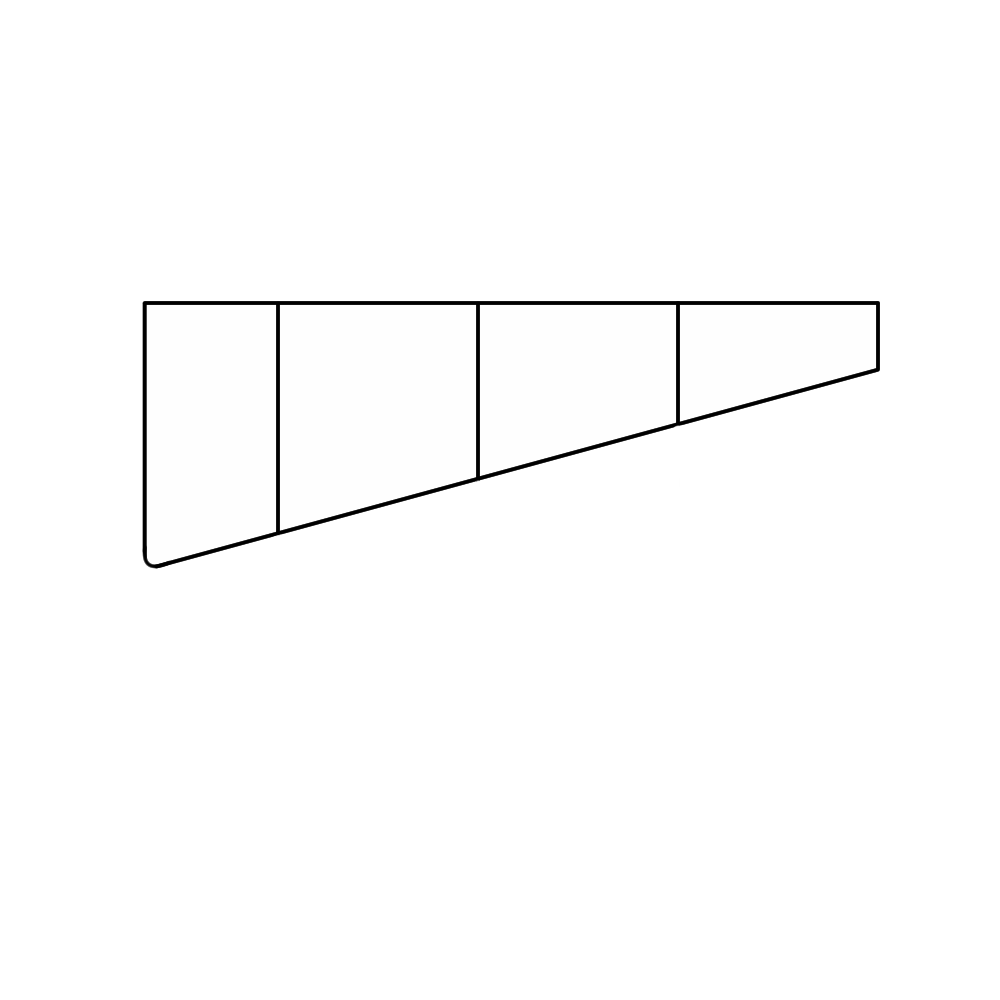
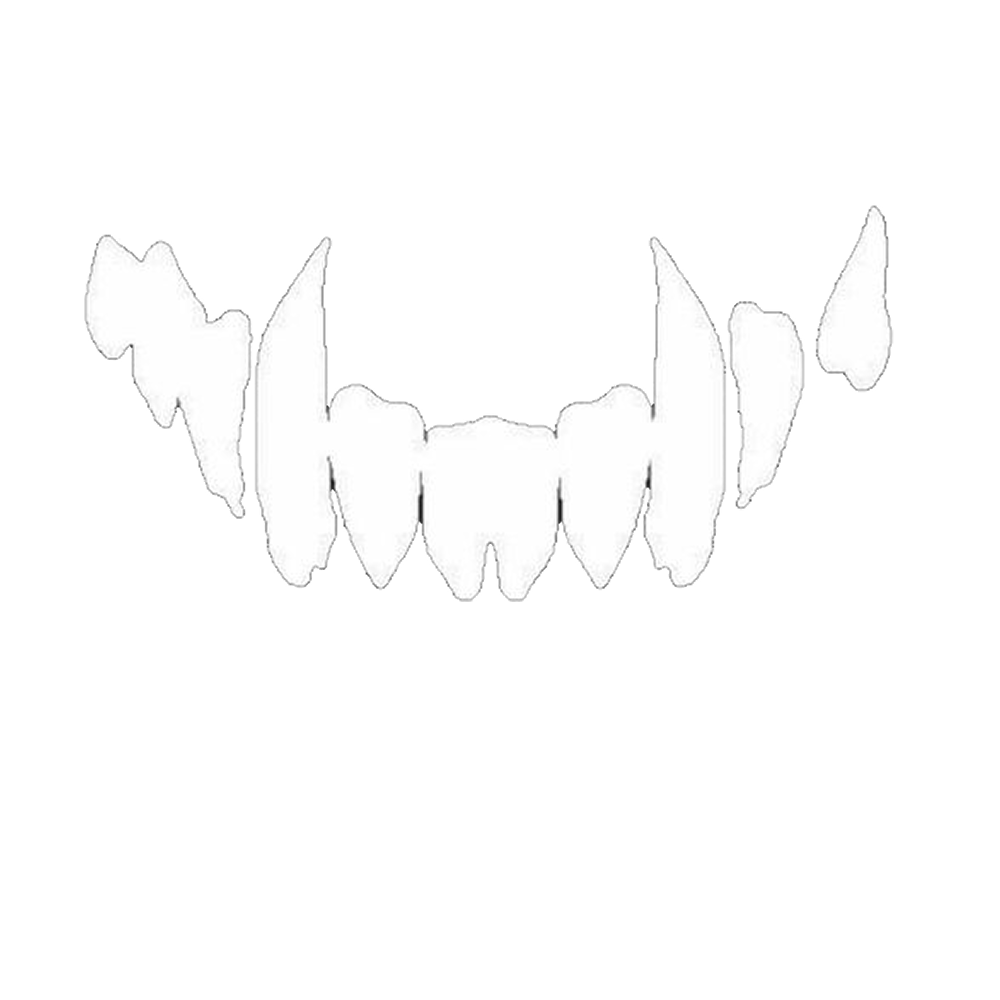
bite

diff --git a/Cooking_Game/Assets/Yamaguchi/script/BiteEffect.cs b/Cooking_Game/Assets/Yamaguchi/script/BiteEffect.cs
@@ -3,30 +3,34 @@ using System.Collections;
 
 public class BiteEffect : MonoBehaviour
 {
-    [SerializeField] private Transform upperRoot;
-    [SerializeField] private Transform lowerRoot;
-    [SerializeField] private Transform effectPoint;   // 口の中央
-    [SerializeField] private ParticleSystem hitEffect;
-    [SerializeField] private float biteSpeed = 8f;
-    [SerializeField] private float biteAngle = 30f;
-    [SerializeField] private float holdTime = 0.1f;
+    [SerializeField] private Transform upperRoot;     // 上の歯
+    [SerializeField] private Transform lowerRoot;     // 下の歯
+    [SerializeField] private Transform effectPoint;   // 噛み合わせ中心
+    [SerializeField] private ParticleSystem hitEffect; // パーティクル
+    [SerializeField] private float moveDistance = 0.2f; // 上下移動距離
+    [SerializeField] private float biteSpeed = 8f;      // 噛み速度
+    [SerializeField] private float holdTime = 0.1f;     // 閉じたまま時間
+    [SerializeField] private float moveOffset = 0.3f;   // 出現位置補正（距離）
+    [SerializeField] private float lifeTime = 2f;       // 自動削除時間
 
-    private Quaternion upperStartRot;
-    private Quaternion lowerStartRot;
+    private Vector3 upperStartPos;
+    private Vector3 lowerStartPos;
     private bool isBiting = false;
+    private Transform target;
 
     void Start()
     {
-        upperStartRot = upperRoot.localRotation;
-        lowerStartRot = lowerRoot.localRotation;
+        upperStartPos = upperRoot.localPosition;
+        lowerStartPos = lowerRoot.localPosition;
     }
 
-    void Update()
+    /// <summary>
+    /// 対象を設定して噛みつく
+    /// </summary>
+    public void SetTarget(Transform targetTransform)
     {
-        if (Input.GetKeyDown(KeyCode.Space))
-        {
-            Bite();
-        }
+        target = targetTransform;
+        Bite();
     }
 
     public void Bite()
@@ -39,54 +43,44 @@ public class BiteEffect : MonoBehaviour
     {
         isBiting = true;
 
-        Quaternion upperOpen = Quaternion.Euler(0, 0, biteAngle);
-        Quaternion lowerOpen = Quaternion.Euler(0, 0, -biteAngle);
-
-        // 歯を開く
-        while (Quaternion.Angle(upperRoot.localRotation, upperOpen) > 0.1f)
+        // --- 方向計算（2D用、Z軸固定） ---
+        if (target != null)
         {
-            upperRoot.localRotation = Quaternion.RotateTowards(upperRoot.localRotation, upperOpen, biteSpeed * Time.deltaTime * 60);
-            lowerRoot.localRotation = Quaternion.RotateTowards(lowerRoot.localRotation, lowerOpen, biteSpeed * Time.deltaTime * 60);
+            Vector3 dir = (target.position - transform.position).normalized;
+            dir.z = 0;
+
+            // 口の位置を対象方向に少しだけ近づける
+            transform.position += dir * moveOffset;
+        }
+
+        // --- 歯を閉じる ---
+        Vector3 upperDown = upperStartPos + Vector3.down * moveDistance;
+        Vector3 lowerUp = lowerStartPos + Vector3.up * moveDistance;
+
+        while (Vector3.Distance(upperRoot.localPosition, upperDown) > 0.001f)
+        {
+            upperRoot.localPosition = Vector3.MoveTowards(upperRoot.localPosition, upperDown, biteSpeed * Time.deltaTime);
+            lowerRoot.localPosition = Vector3.MoveTowards(lowerRoot.localPosition, lowerUp, biteSpeed * Time.deltaTime);
             yield return null;
+        }
+
+        // --- パーティクル再生 ---
+        if (hitEffect != null && effectPoint != null)
+        {
+            hitEffect.transform.position = effectPoint.position;
+            hitEffect.Play();
         }
 
         yield return new WaitForSeconds(holdTime);
 
-        // パーティクル再生
-        if (hitEffect != null && effectPoint != null)
+        // --- 元に戻す ---
+        while (Vector3.Distance(upperRoot.localPosition, upperStartPos) > 0.001f)
         {
-            hitEffect.transform.position = effectPoint.position; // 口の中央
-            hitEffect.Play();
-        }
-
-        // 歯を閉じる
-        while (Quaternion.Angle(upperRoot.localRotation, upperStartRot) > 0.1f)
-        {
-            upperRoot.localRotation = Quaternion.RotateTowards(upperRoot.localRotation, upperStartRot, biteSpeed * Time.deltaTime * 60);
-            lowerRoot.localRotation = Quaternion.RotateTowards(lowerRoot.localRotation, lowerStartRot, biteSpeed * Time.deltaTime * 60);
+            upperRoot.localPosition = Vector3.MoveTowards(upperRoot.localPosition, upperStartPos, biteSpeed * Time.deltaTime);
+            lowerRoot.localPosition = Vector3.MoveTowards(lowerRoot.localPosition, lowerStartPos, biteSpeed * Time.deltaTime);
             yield return null;
         }
 
         isBiting = false;
-    }
-
-    // 🔹 ここから追加：ターゲット方向に向かせるメソッド
-    public void SetDirection(Vector3 targetPos)
-    {
-        Vector3 dir = targetPos - transform.position;
-        dir.z = 0;
-        if (dir.sqrMagnitude < 0.0001f) return;
-
-        float angle = Mathf.Atan2(dir.y, dir.x) * Mathf.Rad2Deg;
-        transform.rotation = Quaternion.Euler(0, 0, angle);
-
-        transform.position += dir.normalized * 0.2f; // 噛む位置調整
-    }
-
-    // Renderer を強制ON
-    private void SetRenderersEnabled(Transform t, bool enabled)
-    {
-        var renderers = t.GetComponentsInChildren<Renderer>();
-        foreach (var r in renderers) r.enabled = enabled;
     }
 }

diff --git a/Cooking_Game/Assets/Yamaguchi/script/BreakIngredients.cs b/Cooking_Game/Assets/Yamaguchi/script/BreakIngredients.cs
@@ -8,7 +8,7 @@ public class BreakIngredients : MonoBehaviour
 
     [Header("噛みつき演出設定")]
     [SerializeField] private BiteEffect biteEffectPrefab;   // 既存の BiteEffect プレハブ
-    [SerializeField] private float biteEffectDuration = 1.5f; // BiteEffectを消すまでの時間
+    [SerializeField] private float biteEffectDuration = 0.3f; // BiteEffectを消すまでの時間
     [SerializeField] private Transform mouthOrigin;         // 歯や口の基準位置（プレイヤーなど）
 
     private bool isBroken = false;
@@ -22,33 +22,31 @@ public class BreakIngredients : MonoBehaviour
 
         Vector3 hitPos = transform.position;
 
-        // ===== 噛みつき方向（2D用） =====
-        Vector3 dir = Vector3.zero;
-        if (mouthOrigin != null)
-        {
-            dir = (hitPos - mouthOrigin.position);
-            dir.z = 0; // Z軸を無視して2D方向だけで回転を作る
-            dir.Normalize();
-        }
-
-        // 回転方向を計算（Y軸を基準に2D的な回転）
-        Quaternion lookRot = Quaternion.identity;
-        if (dir != Vector3.zero)
-        {
-            // 2D的な向き（右を基準にするなら Vector3.right）
-            float angle = Mathf.Atan2(dir.y, dir.x) * Mathf.Rad2Deg;
-            lookRot = Quaternion.Euler(0, 0, angle);
-        }
-
         // ===== ① BiteEffectの生成 =====
-        if (biteEffectPrefab != null)
+        if (biteEffectPrefab != null && mouthOrigin != null)
         {
-            // 歯を少しプレイヤー側から出す（演出しやすくする）
-            Vector3 bitePos = hitPos - dir * -3f;
+            // 「口の位置」→「ヒット位置」への方向
+            Vector3 dir = (hitPos - mouthOrigin.position);
+            dir.z = 0; // 2D視点なのでZは固定
 
-            BiteEffect biteInstance = Instantiate(biteEffectPrefab, bitePos, lookRot);
-            biteInstance.Bite(); // 既存の BiteEffect の噛みつきアニメを呼び出し
-            Destroy(biteInstance.gameObject, biteEffectDuration);
+            if (dir.sqrMagnitude > 0.0001f)
+            {
+                // 方向に基づいてZ角度を算出
+                float angle = Mathf.Atan2(dir.y, dir.x) * Mathf.Rad2Deg;
+
+                // スプライトの正面が右(+X)の場合 → そのまま
+                // 正面が上(+Y)なら angle + 90f に変更してOK
+                Quaternion lookRot = Quaternion.Euler(0f, 0f, angle + 180f);
+
+                // 少し手前から噛む
+                Vector3 bitePos = hitPos - dir.normalized * 0.5f;
+
+                // BiteEffect生成
+                BiteEffect biteInstance = Instantiate(biteEffectPrefab, bitePos, lookRot);
+                biteInstance.Bite();
+
+                Destroy(biteInstance.gameObject, biteEffectDuration);
+            }
         }
 
         // ===== ② パーティクルを生成 =====

diff --git a/Cooking_Game/Assets/Yamaguchi/biteeffect1.cs b/Cooking_Game/Assets/Yamaguchi/biteeffect1.cs
@@ -1,0 +1,77 @@
+using UnityEngine;
+using System.Collections;
+
+public class biteeffect1 : MonoBehaviour
+{
+    [SerializeField] private Transform upperRoot;   // 上の歯
+    [SerializeField] private Transform lowerRoot;   // 下の歯
+    [SerializeField] private Transform effectPoint; // かみつき中心位置
+    [SerializeField] private ParticleSystem hitEffect;
+
+    [Header("動き設定")]
+    [SerializeField] private float moveDistance = 0.3f; // 開く距離
+    [SerializeField] private float biteSpeed = 8f;      // 開閉スピード
+    [SerializeField] private float holdTime = 0.1f;     // 開いたままの時間
+
+    private Vector3 upperStartPos;
+    private Vector3 lowerStartPos;
+    private bool isBiting = false;
+
+    void Start()
+    {
+        // 初期位置を記録
+        upperStartPos = upperRoot.localPosition;
+        lowerStartPos = lowerRoot.localPosition;
+    }
+
+    void Update()
+    {
+        // スペースキーで噛みつく
+        if (Input.GetKeyDown(KeyCode.Space))
+        {
+            Bite();
+        }
+    }
+
+    public void Bite()
+    {
+        if (!isBiting)
+            StartCoroutine(BiteAnim());
+    }
+
+    private IEnumerator BiteAnim()
+    {
+        isBiting = true;
+
+        Vector3 upperOpenPos = upperStartPos + Vector3.up * moveDistance;
+        Vector3 lowerOpenPos = lowerStartPos + Vector3.down * moveDistance;
+
+        // 歯を開く
+        while (Vector3.Distance(upperRoot.localPosition, upperOpenPos) > 0.001f)
+        {
+            upperRoot.localPosition = Vector3.MoveTowards(upperRoot.localPosition, upperOpenPos, biteSpeed * Time.deltaTime);
+            lowerRoot.localPosition = Vector3.MoveTowards(lowerRoot.localPosition, lowerOpenPos, biteSpeed * Time.deltaTime);
+            yield return null;
+        }
+
+        // 開いたまま少し待つ
+        yield return new WaitForSeconds(holdTime);
+
+        // パーティクルを再生（噛みつく瞬間）
+        if (hitEffect != null && effectPoint != null)
+        {
+            hitEffect.transform.position = effectPoint.position;
+            hitEffect.Play();
+        }
+
+        // 歯を閉じる
+        while (Vector3.Distance(upperRoot.localPosition, upperStartPos) > 0.001f)
+        {
+            upperRoot.localPosition = Vector3.MoveTowards(upperRoot.localPosition, upperStartPos, biteSpeed * Time.deltaTime);
+            lowerRoot.localPosition = Vector3.MoveTowards(lowerRoot.localPosition, lowerStartPos, biteSpeed * Time.deltaTime);
+            yield return null;
+        }
+
+        isBiting = false;
+    }
+}
